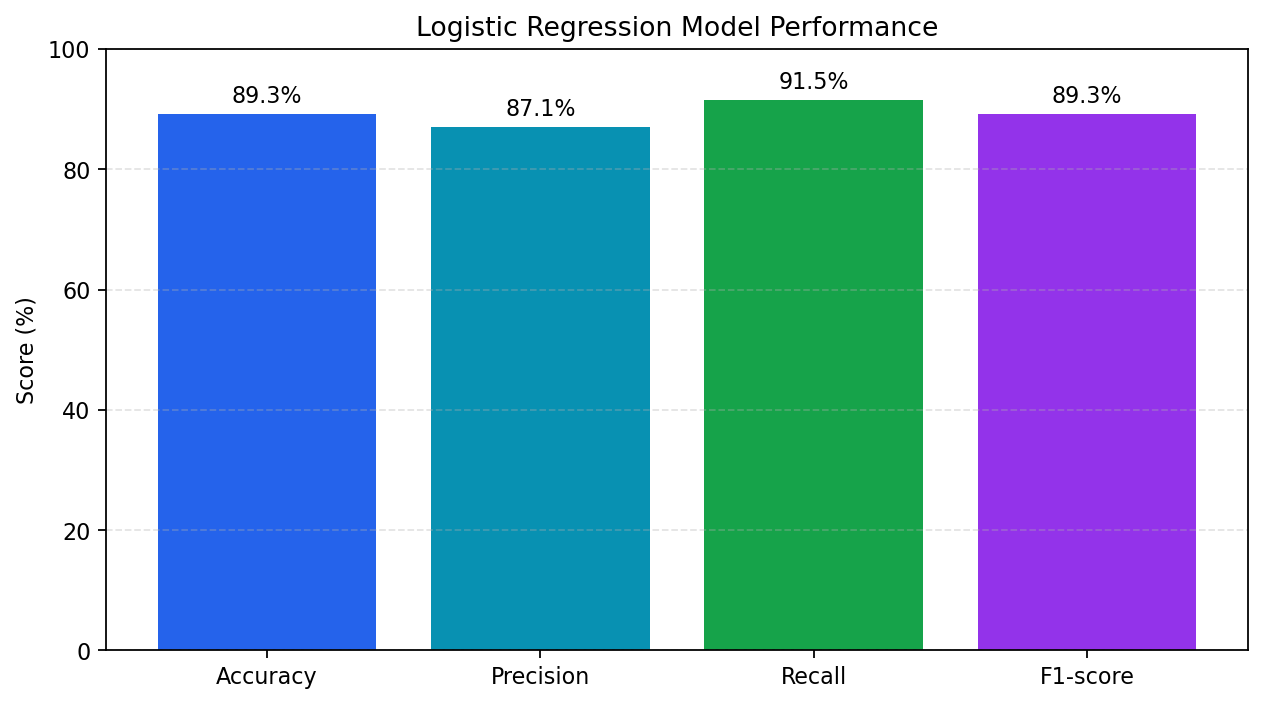
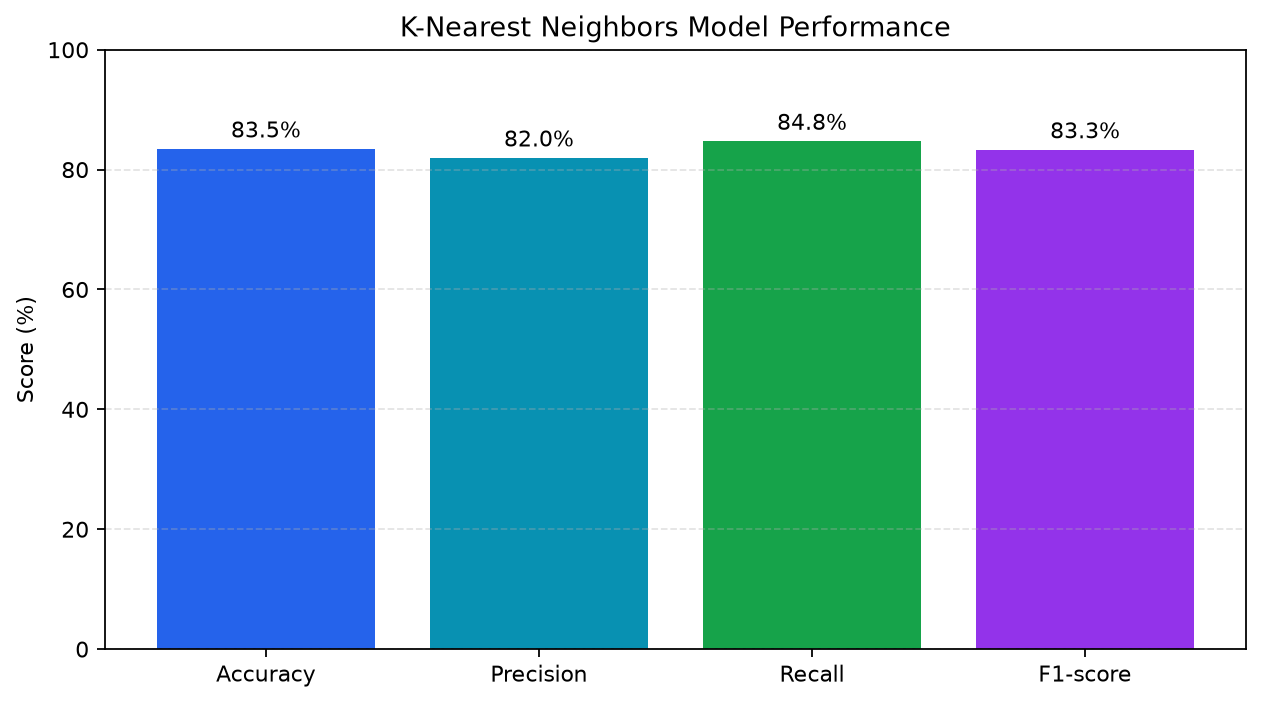
feat: implement K-Nearest Neighbors model for heart disease prediction

diff --git a/train_knn.py b/train_knn.py
@@ -1,0 +1,121 @@
+from __future__ import annotations
+
+import argparse
+from pathlib import Path
+
+from heart_model import (
+    BEST_MODEL_NAME,
+    KNN_MODEL_NAME,
+    dataset_analysis,
+    load_dataset,
+    metrics_to_table,
+    save_artifacts,
+    train_models,
+)
+from heart_visuals import save_knn_visualizations
+
+
+def parse_args() -> argparse.Namespace:
+    parser = argparse.ArgumentParser(
+        description="Train and evaluate K-Nearest Neighbors heart disease prediction model."
+    )
+    parser.add_argument(
+        "--csv",
+        type=str,
+        default=None,
+        help="Optional local CSV path. If omitted, the dataset is downloaded with KaggleHub.",
+    )
+    parser.add_argument(
+        "--output",
+        type=str,
+        default="artifacts",
+        help="Folder used to save trained models and metrics.",
+    )
+    return parser.parse_args()
+
+
+def main() -> None:
+    args = parse_args()
+    df = load_dataset(args.csv)
+    analysis = dataset_analysis(df)
+
+    print("=" * 72)
+    print("HEART DISEASE PREDICTION - K-NEAREST NEIGHBORS")
+    print("=" * 72)
+    print()
+
+    print("1. DATASET ANALYSIS")
+    print("-" * 72)
+    print(f"Raw dataset: {analysis['raw_rows']} samples, {analysis['columns']} columns")
+    print(
+        "Class balance: "
+        f"{analysis['raw_no_heart_disease']} no heart disease "
+        f"({analysis['raw_no_heart_disease_percent']:.2f}%), "
+        f"{analysis['raw_heart_disease']} heart disease "
+        f"({analysis['raw_heart_disease_percent']:.2f}%)"
+    )
+    print(
+        f"Duplicate rows identified: {analysis['duplicates']} "
+        f"(unique rows if removed: {analysis['deduplicated_rows']})"
+    )
+    print(
+        "Unique-row class count: "
+        f"{analysis['deduplicated_no_heart_disease']} no heart disease, "
+        f"{analysis['deduplicated_heart_disease']} heart disease"
+    )
+    print("Exact duplicate rows are removed before training to keep evaluation fair.")
+    print()
+
+    print("2. PREPROCESSING & MODEL")
+    print("-" * 72)
+    print(
+        "Duplicate removal -> 80/20 train-test split -> scaling + one-hot encoding"
+    )
+    print(f"Model: {KNN_MODEL_NAME} (n_neighbors=11, metric=minkowski)")
+    print("StandardScaler is applied before KNN so all features share the same distance scale.")
+    print()
+
+    models, metrics, _, _ = train_models(df, selected_models=[KNN_MODEL_NAME])
+    comparison = metrics_to_table(metrics)
+
+    print("3. FINAL RESULT")
+    print("-" * 72)
+    print(comparison.to_string(index=False))
+
+    knn_metrics = metrics[KNN_MODEL_NAME]
+    print()
+    print(f"Accuracy : {knn_metrics['accuracy']:.4f}")
+    print(f"Precision: {knn_metrics['precision']:.4f}")
+    print(f"Recall   : {knn_metrics['recall']:.4f}")
+    print(f"F1-score : {knn_metrics['f1_score']:.4f}")
+    print(f"Backend prototype model: {BEST_MODEL_NAME}")
+    print()
+    tn, fp = knn_metrics["confusion_matrix"][0]
+    fn, tp = knn_metrics["confusion_matrix"][1]
+    print("Confusion matrix:")
+    print(f"True Negative  (correct no heart disease): {tn}")
+    print(f"False Positive (predicted disease wrongly): {fp}")
+    print(f"False Negative (missed heart disease): {fn}")
+    print(f"True Positive  (correct heart disease): {tp}")
+    print()
+    print("Classification report:")
+    print(knn_metrics["classification_report"])
+
+    output_dir = Path(args.output)
+    save_artifacts(models, metrics, output_dir)
+    save_knn_visualizations(
+        comparison,
+        knn_metrics["confusion_matrix"],
+        output_dir,
+    )
+    print("4. OUTPUT")
+    print("-" * 72)
+    print(f"Artifacts saved to: {output_dir.resolve()}")
+    print("Charts saved:")
+    print("- metrics_chart.png")
+    print("- confusion_matrix.png")
+    print("Run prototype: python -m streamlit run app.py")
+
+
+if __name__ == "__main__":
+    main()

diff --git a/heart_model.py b/heart_model.py
@@ -15,6 +15,7 @@ from sklearn.compose import ColumnTransformer
 from sklearn.ensemble import RandomForestClassifier
 from sklearn.impute import SimpleImputer
 from sklearn.linear_model import LogisticRegression
+from sklearn.neighbors import KNeighborsClassifier
 from sklearn.metrics import (
     accuracy_score,
     classification_report,
@@ -92,6 +93,7 @@ CATEGORY_LABELS = {
 
 LOGISTIC_MODEL_NAME = "Logistic Regression"
 RANDOM_FOREST_MODEL_NAME = "Random Forest"
+KNN_MODEL_NAME = "K-Nearest Neighbors"
 BEST_MODEL_NAME = LOGISTIC_MODEL_NAME
 FINAL_LOGISTIC_VARIANT = "Tuned Logistic Regression + Interaction Features"
 
@@ -111,6 +113,11 @@ MODEL_OPTIONS = {
         min_samples_leaf=2,
         max_features="sqrt",
         random_state=RANDOM_STATE,
+    ),
+    KNN_MODEL_NAME: KNeighborsClassifier(
+        n_neighbors=11,
+        metric="minkowski",
+        n_jobs=1,
     ),
 }
 

diff --git a/heart_visuals.py b/heart_visuals.py
@@ -236,3 +236,22 @@ def save_rf_visualizations(
     plt.close(fig_metrics)
     plt.close(fig_cm)
     plt.close(fig_imp)
+
+
+def save_knn_visualizations(
+    metric_table: pd.DataFrame,
+    confusion_matrix: list[list[int]],
+    output_dir: str | Path,
+) -> None:
+    """Save KNN charts (metrics and confusion matrix only — KNN has no feature importances)."""
+    output_path = Path(output_dir)
+    output_path.mkdir(parents=True, exist_ok=True)
+
+    fig_metrics = create_metrics_chart(metric_table)
+    fig_cm = create_confusion_matrix_chart(confusion_matrix)
+
+    fig_metrics.savefig(output_path / "metrics_chart.png", dpi=160, bbox_inches="tight")
+    fig_cm.savefig(output_path / "confusion_matrix.png", dpi=160, bbox_inches="tight")
+
+    plt.close(fig_metrics)
+    plt.close(fig_cm)

diff --git a/app.py b/app.py
@@ -5,6 +5,7 @@ import streamlit as st
 
 from heart_model import (
     FINAL_LOGISTIC_VARIANT,
+    KNN_MODEL_NAME,
     LOGISTIC_MODEL_NAME,
     RANDOM_FOREST_MODEL_NAME,
     dataset_analysis,
@@ -71,7 +72,7 @@ CATEGORY_DESCRIPTIONS = {
 
 FRONTEND_MODEL_OPTIONS = [
     LOGISTIC_MODEL_NAME,
-    "K-Nearest Neighbors",
+    KNN_MODEL_NAME,
     RANDOM_FOREST_MODEL_NAME,
 ]
 
